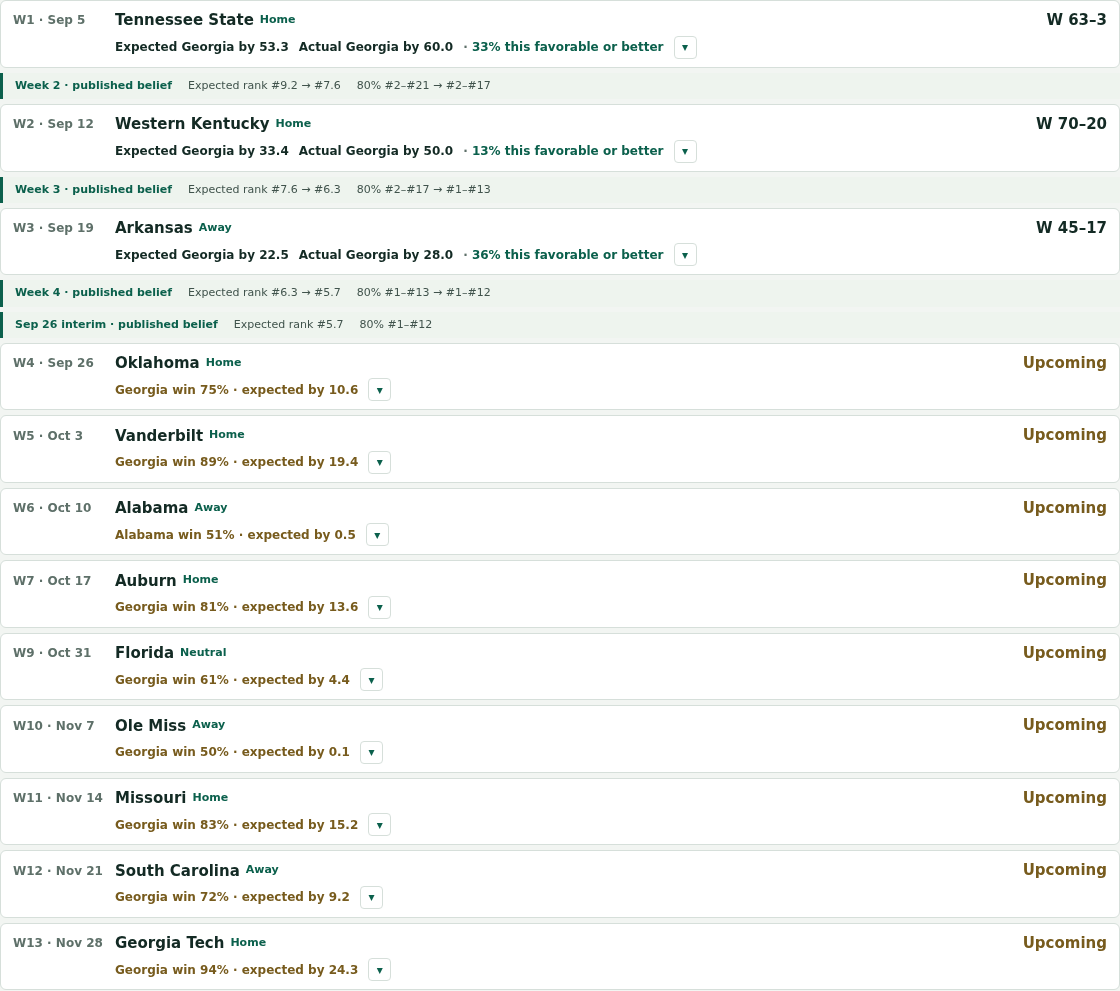
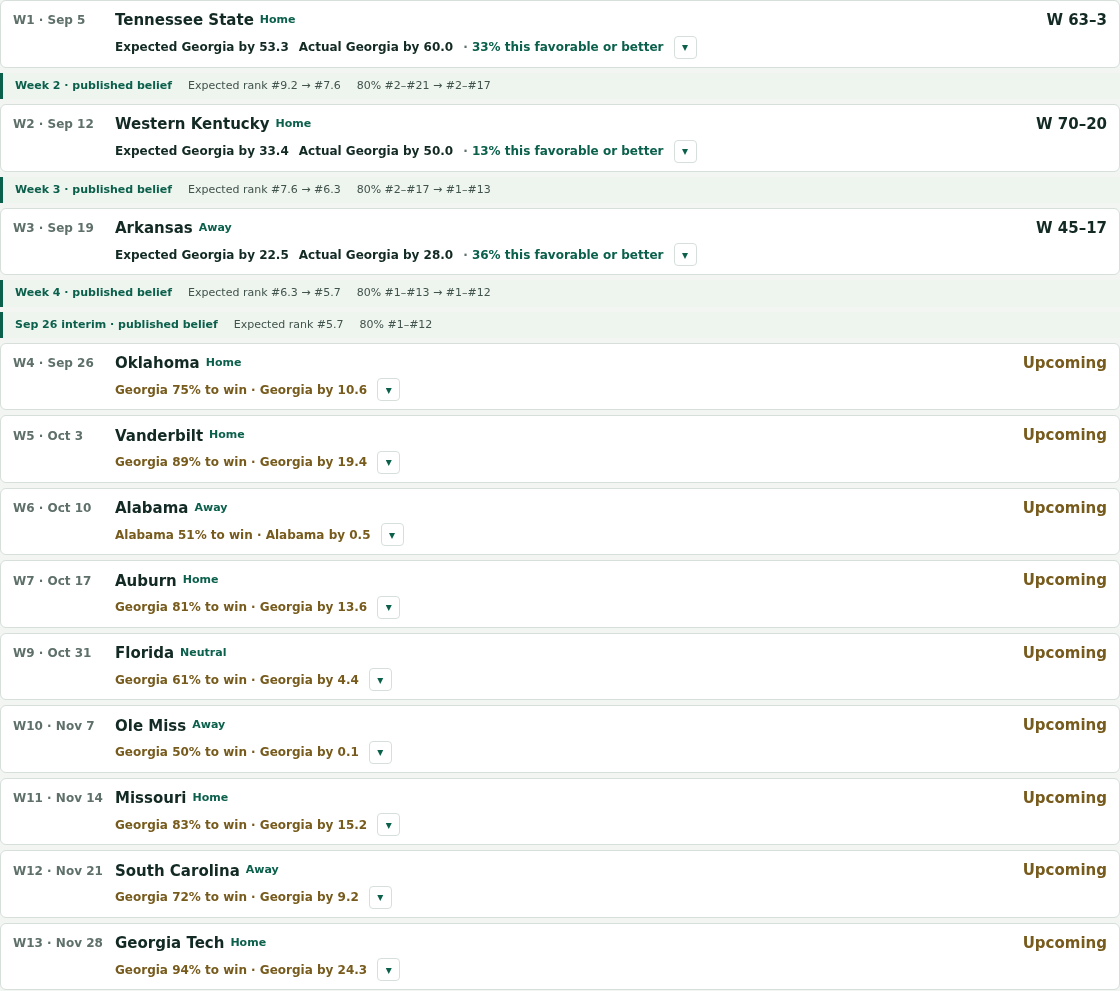
Polish schedule copy and retrospective detail

diff --git a/site/assets/team.js b/site/assets/team.js
@@ -229,7 +229,6 @@ function retrospectiveChart(expectation, team, axis, oriented) {
     label,
     description: "Bars show otherwise expected outcomes; the gold line marks the expected margin and the dark line marks the actual margin. The horizontal axis is from the team's perspective.",
     zero: true,
-    tail: (display.lower_tail_probability + display.upper_tail_probability) > 0,
   });
   const minimum = Number(axis.min_margin);
   const maximum = Number(axis.max_margin);
@@ -819,9 +818,7 @@ function predictionPanel(prediction, team, axis) {
   const favorite = oriented.focalWin >= oriented.opponentWin ? [oriented.focalName, oriented.focalWin] : [oriented.opponentName, oriented.opponentWin];
   const panel = node("div", "game-prediction");
   const expectedText = oriented.expected >= 0 ? marginSide(oriented.focalName, oriented.expected) : marginSide(oriented.opponentName, -oriented.expected);
-  const expectedTeam = oriented.expected >= 0 ? oriented.focalName : oriented.opponentName;
-  const expectedPrimary = Math.abs(oriented.expected) < 0.05 ? "expected Even" : expectedTeam === favorite[0] ? `expected by ${marginValue(oriented.expected)}` : `expected ${expectedTeam} by ${marginValue(oriented.expected)}`;
-  const title = node("strong", "game-prediction-title", `${favorite[0]} win ${percentage(favorite[1])} · ${expectedPrimary}`);
+  const title = node("strong", "game-prediction-title", `${favorite[0]} ${percentage(favorite[1])} to win · ${expectedText}`);
   const detail = node("div", "game-prediction-disclosure-content");
   const chart = futureChart(prediction, team, axis, oriented);
   if (chart) detail.append(chart);
@@ -860,8 +857,6 @@ function retrospectivePanel(expectation, team, axis, opponentName) {
   if (chart) detail.append(chart);
   const facts = node("dl", "game-rating-details");
   [
-    ["Expected margin", oriented.expectedText],
-    ["Actual margin", oriented.actualText],
     ["Observed percentile", percentileLabel(percentile * 100)],
     [favorable ? "This favorable or better" : "This unfavorable or worse", tailPercentage(tail)],
     ["Median margin", marginSide(orient(expectation.median_home_margin) >= 0 ? team.team_name : opponentName, orient(expectation.median_home_margin))],

diff --git a/tests/browser/team-schedule.spec.js b/tests/browser/team-schedule.spec.js
@@ -34,7 +34,9 @@ test("keeps current Georgia results, checkpoint movement, and future predictions
   await expect(page.locator(".schedule-checkpoint")).toHaveCount(4);
   await expect(page.locator(".schedule-checkpoint").last()).toContainText("Week 5 · published belief");
   await expect(future).toContainText("Upcoming");
-  await expect(future).toContainText("win");
+  await expect(future.locator(".game-prediction-title")).toHaveText("Georgia 91% to win · Georgia by 20.7");
+  await expect(page.locator('.game-card[data-game-id="401856712"] .game-prediction-title'))
+    .toHaveText("Alabama 52% to win · Alabama by 0.6");
   await expect(future.locator(".game-retrospective")).toHaveCount(0);
   const maximumCollapsedHeight = testInfo.project.name === "mobile" ? 125 : 85;
   expect((await page.locator(".game-card").first().boundingBox()).height).toBeLessThan(maximumCollapsedHeight);
@@ -101,6 +103,17 @@ test("opens distinct retrospective and predictive distributions from the keyboar
   const expectedMargin = Number(await retrospective.locator(".retrospective-marker-expected").getAttribute("data-margin"));
   expect(expectedMargin).toBeCloseTo(11.298375740164296, 10);
   await expect(retrospective.locator(".retrospective-marker-actual")).toHaveAttribute("data-margin", "28");
+  await expect(retrospective.locator(".retrospective-chart-legend")).toContainText("Expected Georgia by 11.3");
+  await expect(retrospective.locator(".retrospective-chart-legend")).toContainText("Actual Georgia by 28.0");
+  await expect(retrospective.locator("dt")).toHaveText([
+    "Observed percentile",
+    "This favorable or better",
+    "Median margin",
+    "Central 50%",
+    "Central 80%",
+    "Central 95%",
+  ]);
+  await expect(retrospective.locator(".distribution-tail")).toHaveCount(0);
   const future = page.locator('.game-card[data-game-id="401856705"]');
   await expect(future.locator(".game-distribution-disclosure summary")).toHaveAttribute("aria-label", /Show predictive margin distribution/);
   await future.locator(".game-distribution-disclosure summary").click();

diff --git a/tests/test_site_data.py b/tests/test_site_data.py
@@ -1000,7 +1000,7 @@ def test_team_schedule_uses_distinct_accessible_retrospective_and_predictive_plo
     assert "predictive margin distribution" in team
     assert "▾" in team
     assert "Observed percentile" in team
-    assert "expectedPrimary" in team
+    assert "to win · ${expectedText}" in team
     assert "Played like" not in team
     assert "No retrospective expectation available" in team
     assert "How to read this page" in html
